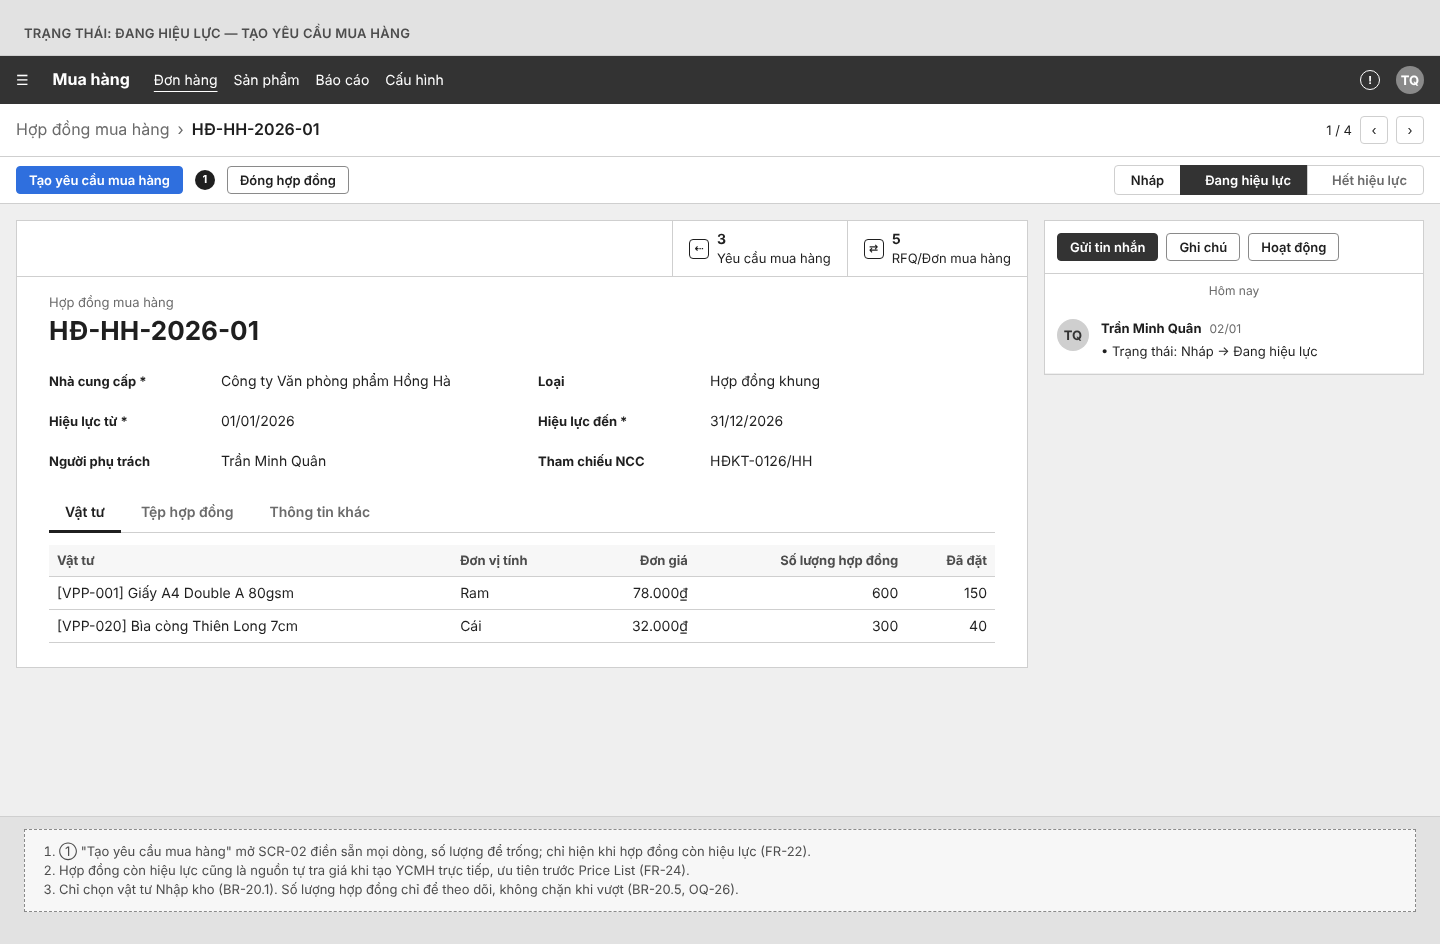
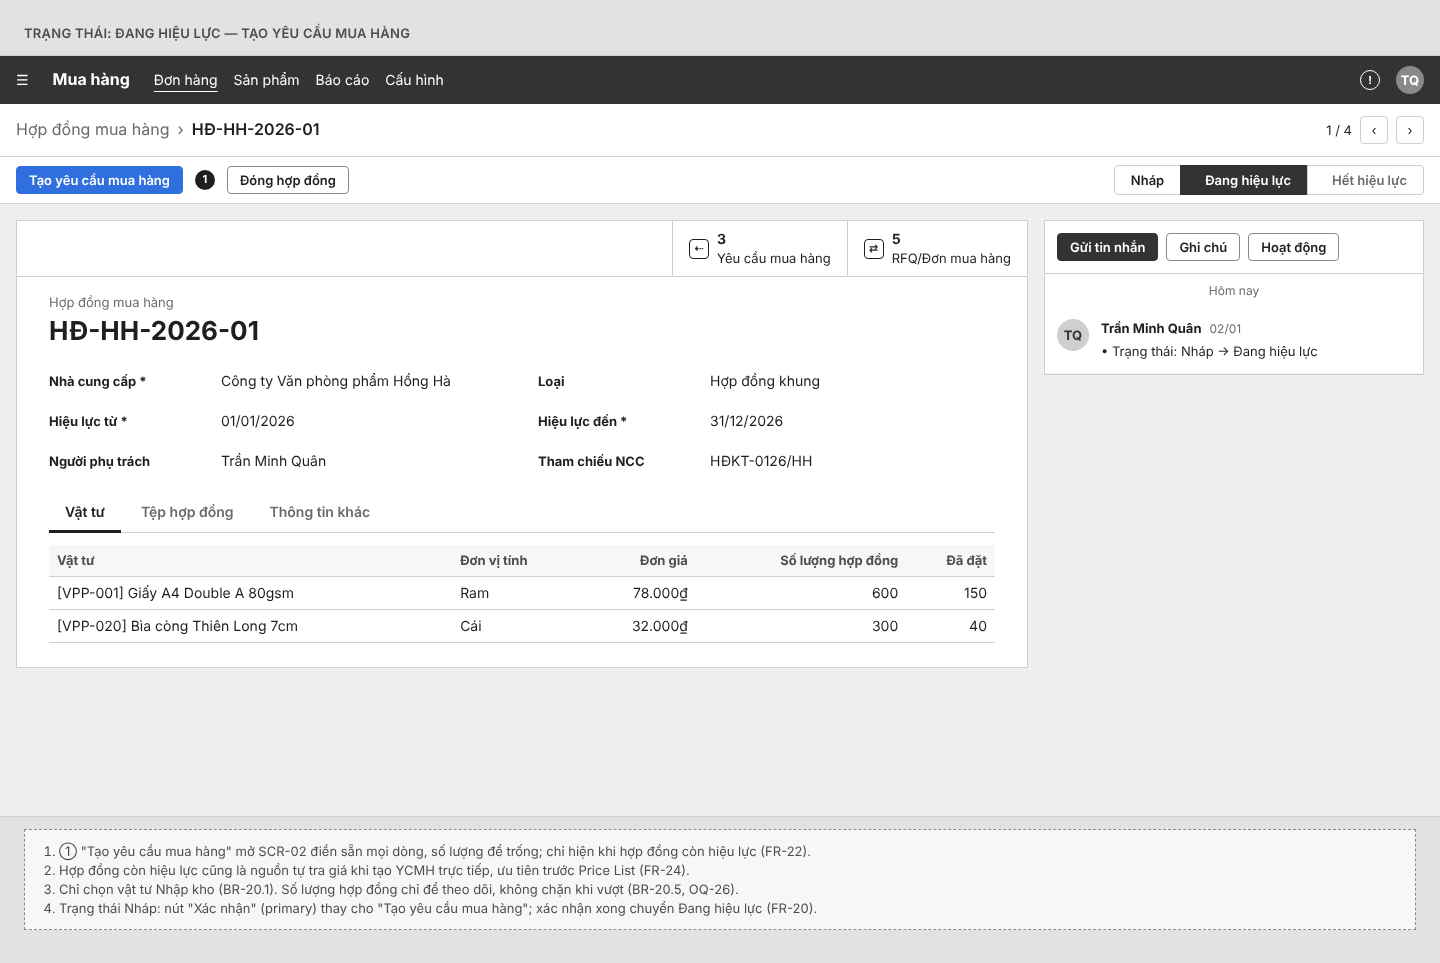
docs(odoo-mua-hang): self-review fixes v0.2
Claude-Session: https://claude.ai/code/session_01FUUTUG18Pmoj9k7Yu1zC77

diff --git a/outputs/odoo-mua-hang/ui/screens/SCR-11-hop-dong-mua-hang.html b/outputs/odoo-mua-hang/ui/screens/SCR-11-hop-dong-mua-hang.html
@@ -23,7 +23,7 @@
   <div class="wf-frame">
 <div class="be-app"><header class="be-topbar"><span>☰</span><span class="be-topbar__app">Mua hàng</span><nav class="be-topbar__menu"><span class="is-active">Đơn hàng</span><span>Sản phẩm</span><span>Báo cáo</span><span>Cấu hình</span></nav><div class="be-topbar__right"><span class="wf-icon wf-icon--round">!</span><span class="wf-avatar">TQ</span></div></header><div class="be-body"><main class="be-main"><div class="be-controlpanel"><div class="be-controlpanel__left"><nav class="wf-breadcrumb"><span>Hợp đồng mua hàng</span><span>HĐ-HH-2026-01</span></nav></div><div class="be-controlpanel__right"><div class="be-pager"><span>1 / 4</span><span class="be-pager__btn">‹</span><span class="be-pager__btn">›</span></div></div></div><div class="be-form-header"><span class="wf-btn wf-btn--sm wf-btn--primary">Tạo yêu cầu mua hàng</span><span class="wf-anno">1</span><span class="wf-btn wf-btn--sm">Đóng hợp đồng</span><div class="be-statusbar"><span class="be-status is-done">Nháp</span><span class="be-status is-active">Đang hiệu lực</span><span class="be-status">Hết hiệu lực</span></div></div><div class="be-form-layout"><div class="be-sheet"><div class="be-smart-buttons"><span class="be-smart-btn"><span class="wf-icon">⇠</span><span><strong>3</strong>Yêu cầu mua hàng</span></span><span class="be-smart-btn"><span class="wf-icon">⇄</span><span><strong>5</strong>RFQ/Đơn mua hàng</span></span></div><div><div class="be-title-label">Hợp đồng mua hàng</div><div class="be-title">HĐ-HH-2026-01</div></div><div class="be-fields"><div class="be-field be-field--required"><span class="be-field__label">Nhà cung cấp</span><span class="be-field__value is-readonly">Công ty Văn phòng phẩm Hồng Hà</span></div><div class="be-field"><span class="be-field__label">Loại</span><span class="be-field__value is-readonly">Hợp đồng khung</span></div><div class="be-field be-field--required"><span class="be-field__label">Hiệu lực từ</span><span class="be-field__value is-readonly">01/01/2026</span></div><div class="be-field be-field--required"><span class="be-field__label">Hiệu lực đến</span><span class="be-field__value is-readonly">31/12/2026</span></div><div class="be-field"><span class="be-field__label">Người phụ trách</span><span class="be-field__value is-readonly">Trần Minh Quân</span></div><div class="be-field"><span class="be-field__label">Tham chiếu NCC</span><span class="be-field__value is-readonly">HĐKT-0126/HH</span></div></div><div class="be-notebook"><div class="wf-tabs"><span class="wf-tab is-active">Vật tư</span><span class="wf-tab">Tệp hợp đồng</span><span class="wf-tab">Thông tin khác</span></div><div class="be-o2m"><table class="wf-table wf-table--compact"><thead><tr><th>Vật tư</th><th>Đơn vị tính</th><th class="num">Đơn giá</th><th class="num">Số lượng hợp đồng</th><th class="num">Đã đặt</th></tr></thead><tbody><tr><td>[VPP-001] Giấy A4 Double A 80gsm</td><td>Ram</td><td class="num">78.000₫</td><td class="num">600</td><td class="num">150</td></tr><tr><td>[VPP-020] Bìa còng Thiên Long 7cm</td><td>Cái</td><td class="num">32.000₫</td><td class="num">300</td><td class="num">40</td></tr></tbody></table></div></div></div><aside class="be-chatter"><div class="be-chatter__actions"><span class="wf-btn wf-btn--sm wf-btn--dark">Gửi tin nhắn</span><span class="wf-btn wf-btn--sm">Ghi chú</span><span class="wf-btn wf-btn--sm">Hoạt động</span></div><div class="be-chatter__date">Hôm nay</div><div class="be-msg"><span class="wf-avatar">TQ</span><div><div class="be-msg__head"><span class="be-msg__author">Trần Minh Quân</span><span class="be-msg__time">02/01</span></div><ul class="be-tracking"><li>Trạng thái: Nháp → Đang hiệu lực</li></ul></div></div></aside></div></main></div></div>
   </div>
-  <div class="wf-notes"><ol><li>① "Tạo yêu cầu mua hàng" mở SCR-02 điền sẵn mọi dòng, số lượng để trống; chỉ hiện khi hợp đồng còn hiệu lực (FR-22).</li><li>Hợp đồng còn hiệu lực cũng là nguồn tự tra giá khi tạo YCMH trực tiếp, ưu tiên trước Price List (FR-24).</li><li>Chỉ chọn vật tư Nhập kho (BR-20.1). Số lượng hợp đồng chỉ để theo dõi, không chặn khi vượt (BR-20.5, OQ-26).</li></ol></div>
+  <div class="wf-notes"><ol><li>① "Tạo yêu cầu mua hàng" mở SCR-02 điền sẵn mọi dòng, số lượng để trống; chỉ hiện khi hợp đồng còn hiệu lực (FR-22).</li><li>Hợp đồng còn hiệu lực cũng là nguồn tự tra giá khi tạo YCMH trực tiếp, ưu tiên trước Price List (FR-24).</li><li>Chỉ chọn vật tư Nhập kho (BR-20.1). Số lượng hợp đồng chỉ để theo dõi, không chặn khi vượt (BR-20.5, OQ-26).</li><li>Trạng thái Nháp: nút "Xác nhận" (primary) thay cho "Tạo yêu cầu mua hàng"; xác nhận xong chuyển Đang hiệu lực (FR-20).</li></ol></div>
 </section>
 <section class="wf-state" data-state="expired" data-label="Hết hiệu lực">
   <div class="wf-frame">

diff --git a/outputs/odoo-mua-hang/ui/screens/SCR-12-bao-gia-ncc.html b/outputs/odoo-mua-hang/ui/screens/SCR-12-bao-gia-ncc.html
@@ -23,7 +23,7 @@
   <div class="wf-frame">
 <div class="be-app"><header class="be-topbar"><span>☰</span><span class="be-topbar__app">Mua hàng</span><nav class="be-topbar__menu"><span class="is-active">Đơn hàng</span><span>Sản phẩm</span><span>Báo cáo</span><span>Cấu hình</span></nav><div class="be-topbar__right"><span class="wf-icon wf-icon--round">!</span><span class="wf-avatar">TQ</span></div></header><div class="be-body"><main class="be-main"><div class="be-controlpanel"><div class="be-controlpanel__left"><nav class="wf-breadcrumb"><span>Báo giá NCC</span><span>BG-PV-1510</span></nav></div><div class="be-controlpanel__right"><div class="be-pager"><span>2 / 6</span><span class="be-pager__btn">‹</span><span class="be-pager__btn">›</span></div></div></div><div class="be-form-header"><span class="wf-btn wf-btn--sm wf-btn--primary">Tạo yêu cầu mua hàng</span><span class="wf-anno">1</span><span class="wf-btn wf-btn--sm wf-btn--ghost">Huỷ</span><div class="be-statusbar"><span class="be-status is-done">Nháp</span><span class="be-status is-active">Còn hiệu lực</span><span class="be-status">Hết hiệu lực</span></div></div><div class="be-form-layout"><div class="be-sheet"><div class="be-smart-buttons"><span class="be-smart-btn"><span class="wf-icon">⇠</span><span><strong>1</strong>Yêu cầu mua hàng</span></span></div><div><div class="be-title-label">Báo giá NCC</div><div class="be-title">BG-PV-1510</div></div><div class="be-fields"><div class="be-field be-field--required"><span class="be-field__label">Nhà cung cấp</span><span class="be-field__value is-readonly">Công ty TNHH Tin học Phong Vũ</span></div><div class="be-field be-field--required"><span class="be-field__label">Ngày báo giá</span><span class="be-field__value is-readonly">15/10/2026</span></div><div class="be-field"><span class="be-field__label">Người nhận</span><span class="be-field__value is-readonly">Trần Minh Quân</span></div><div class="be-field be-field--required"><span class="be-field__label">Hiệu lực đến</span><span class="be-field__value is-readonly">15/11/2026</span></div><div class="be-field be-field--required"><span class="be-field__label">Tệp báo giá</span><span class="be-field__value is-readonly"><span class="wf-file-list"><span class="wf-badge">📎 BG-PV-1510.pdf</span></span></span></div></div><div class="be-notebook"><div class="wf-tabs"><span class="wf-tab is-active">Vật tư</span><span class="wf-tab">Thông tin khác</span></div><div class="be-o2m"><table class="wf-table wf-table--compact"><thead><tr><th>Vật tư</th><th>Đơn vị tính</th><th class="num">Đơn giá</th><th class="num">Số lượng tối thiểu</th><th>Ghi chú</th></tr></thead><tbody><tr><td>[IT-211] Máy in HP LaserJet M211dw</td><td>Cái</td><td class="num">6.990.000₫</td><td class="num">1</td><td>Bảo hành 12 tháng</td></tr><tr><td>[IT-107] Mực in HP 107A</td><td>Hộp</td><td class="num">765.000₫</td><td class="num">5</td><td>Hàng chính hãng</td></tr></tbody></table></div></div></div><aside class="be-chatter"><div class="be-chatter__actions"><span class="wf-btn wf-btn--sm wf-btn--dark">Gửi tin nhắn</span><span class="wf-btn wf-btn--sm">Ghi chú</span><span class="wf-btn wf-btn--sm">Hoạt động</span></div><div class="be-chatter__date">Hôm nay</div><div class="be-msg"><span class="wf-avatar">TQ</span><div><div class="be-msg__head"><span class="be-msg__author">Trần Minh Quân</span><span class="be-msg__time">15/10</span></div><ul class="be-tracking"><li>Trạng thái: Nháp → Còn hiệu lực</li></ul></div></div></aside></div></main></div></div>
   </div>
-  <div class="wf-notes"><ol><li>① "Tạo yêu cầu mua hàng" mở SCR-02 điền sẵn NCC, đơn giá báo giá, số lượng để trống; chỉ hiện khi còn hiệu lực (FR-23).</li><li>Báo giá NCC là báo giá nhà cung cấp gửi công ty, khác RFQ "Yêu cầu báo giá" công ty gửi đi; không tham gia tự tra giá (BR-21.3, AS-33).</li><li>Số lượng nhập dưới "Số lượng tối thiểu" → cảnh báo, vẫn lưu được (BR-23.3).</li></ol></div>
+  <div class="wf-notes"><ol><li>① "Tạo yêu cầu mua hàng" mở SCR-02 điền sẵn NCC, đơn giá báo giá, số lượng để trống; chỉ hiện khi còn hiệu lực (FR-23).</li><li>Báo giá NCC là báo giá nhà cung cấp gửi công ty, khác RFQ "Yêu cầu báo giá" công ty gửi đi; không tham gia tự tra giá (BR-21.3, AS-33).</li><li>Số lượng nhập dưới "Số lượng tối thiểu" → cảnh báo, vẫn lưu được (BR-23.3).</li><li>Trạng thái Nháp: nút "Xác nhận" (primary) thay cho "Tạo yêu cầu mua hàng"; bắt buộc có tệp báo giá (FR-21).</li></ol></div>
 </section>
 <section class="wf-state" data-state="expired" data-label="Hết hiệu lực">
   <div class="wf-frame">

diff --git a/outputs/odoo-mua-hang/SRS.md b/outputs/odoo-mua-hang/SRS.md
@@ -13,7 +13,7 @@
 | Phiên bản | Ngày | Thay đổi | Nguồn | Ảnh hưởng |
 |---|---|---|---|---|
 | 0.1 | 2026-10-20 | Bản đầu tiên | inputs/odoo-mua-hang/khao-sat-lan-1.md | Toàn bộ |
-| 0.2 | 2026-10-20 | Khảo sát lần 2 — phiếu Yêu cầu mua hàng: phân loại vật tư Nhập kho / Dịch vụ; 3 cách tạo YCMH (trực tiếp, từ Hợp đồng, từ Báo giá NCC); số phiếu `Mã BP_XXXX_DD_MM_YY`; đầu phiếu và dòng mới (kho nhận theo dòng); duyệt 3 cấp Trưởng nhóm → MH → BOD; tự điền NCC và giá theo Hợp đồng → Price List; chặn trùng vật tư + NCC; mua dịch vụ bằng RFQ trực tiếp | inputs/odoo-mua-hang/khao-sat-lan-2-yeu-cau-mua-hang.md; inputs/odoo-mua-hang/_changes/20261020-074707.md | Sửa FR-01, FR-02, FR-03, FR-05, FR-13, FR-16, FR-17, NFR-02, SCR-01, SCR-02, SCR-03, SCR-04; thêm FR-19 → FR-25, SCR-11, SCR-12, AS-26 → AS-37, OQ-22 → OQ-33; OQ-04 đã trả lời |
+| 0.2 | 2026-10-20 | Khảo sát lần 2 — phiếu Yêu cầu mua hàng: phân loại vật tư Nhập kho / Dịch vụ; 3 cách tạo YCMH (trực tiếp, từ Hợp đồng, từ Báo giá NCC); số phiếu `Mã BP_XXXX_DD_MM_YY`; đầu phiếu và dòng mới (kho nhận theo dòng); duyệt 3 cấp Trưởng nhóm → MH → BOD; tự điền NCC và giá theo Hợp đồng → Price List; chặn trùng vật tư + NCC; mua dịch vụ bằng RFQ trực tiếp | inputs/odoo-mua-hang/khao-sat-lan-2-yeu-cau-mua-hang.md; inputs/odoo-mua-hang/_changes/20261020-074707.md | Sửa FR-01, FR-02, FR-03, FR-05, FR-13, FR-16, FR-17, NFR-02, SCR-01, SCR-02, SCR-03, SCR-04; thêm FR-19 → FR-25, SCR-11, SCR-12, AS-26 → AS-38, OQ-22 → OQ-33; OQ-04 đã trả lời; SCR-05 chỉ cập nhật nền (số phiếu, cột Nhập kho) |
 
 ## 1. Giới thiệu
 
@@ -93,7 +93,7 @@ flowchart LR
 | Quản trị hệ thống | Backend — Settings | Cấu hình người duyệt, ngưỡng, mẫu email |
 
 ### 2.3 Giả định & phụ thuộc
-- **Giả định:** xem mục 9.1 (AS-01 … AS-37).
+- **Giả định:** xem mục 9.1 (AS-01 … AS-38).
 - **Phụ thuộc:**
   - Odoo 17 Enterprise với các module `purchase`, `purchase_requisition` (Alternatives), `approvals`, `approval_purchase`, `stock`, `account_accountant` (AS-01).
   - Module tuỳ biến mới `purchase_flow_custom` (tên đề xuất) chứa toàn bộ thay đổi; không sửa mã nguồn lõi.
@@ -429,7 +429,7 @@ flowchart LR
   - BR-20.1: Chỉ vật tư Nhập kho (BR-19.1).
   - BR-20.2: Hiệu lực đến > Hiệu lực từ.
   - BR-20.3: Còn hiệu lực = trạng thái "Đang hiệu lực" và ngày hiện tại nằm trong [Hiệu lực từ, Hiệu lực đến] (AS-30).
-  - BR-20.4: Tác vụ chạy hằng ngày 00:05 chuyển hợp đồng quá "Hiệu lực đến" sang "Hết hiệu lực".
+  - BR-20.4: Tác vụ chạy hằng ngày 00:05 (AS-38) chuyển hợp đồng quá "Hiệu lực đến" sang "Hết hiệu lực".
   - BR-20.5: Không kiểm tra số lượng hợp đồng còn lại khi tạo YCMH hoặc tra giá (AS-30, OQ-26).
 - **Acceptance criteria:**
   1. **Given** hợp đồng Nháp đủ thông tin, có 1 dòng đơn giá > 0 **When** bấm "Xác nhận" **Then** hợp đồng chuyển "Đang hiệu lực".
@@ -447,7 +447,7 @@ flowchart LR
   - BR-21.1: Chỉ vật tư Nhập kho (BR-19.1).
   - BR-21.2: Hiệu lực đến ≥ Ngày báo giá.
   - BR-21.3: Báo giá NCC không tham gia tự tra giá FR-24 (AS-33).
-  - BR-21.4: Tác vụ hằng ngày 00:05 chuyển báo giá quá "Hiệu lực đến" sang "Hết hiệu lực".
+  - BR-21.4: Tác vụ hằng ngày 00:05 (AS-38) chuyển báo giá quá "Hiệu lực đến" sang "Hết hiệu lực".
 - **Acceptance criteria:**
   1. **Given** báo giá Nháp đủ thông tin, có tệp báo giá **When** bấm "Xác nhận" **Then** báo giá chuyển "Còn hiệu lực".
   2. **Given** báo giá chưa đính kèm tệp **When** bấm "Xác nhận" **Then** hiện lỗi "Vui lòng đính kèm file báo giá của NCC".
@@ -838,6 +838,7 @@ flowchart TD
 | AS-35 | Đầu phiếu giữ "Ngày cần hàng" (không bắt buộc, làm ngày dự kiến trên RFQ); "Lý do mua" bỏ, thay bằng "Ghi chú" (không bắt buộc) | Khảo sát lần 2 không nhắc 2 trường này | FR-01 |
 | AS-36 | Tạo YCMH từ Hợp đồng / Báo giá NCC: chép mọi dòng, số lượng để trống cho người tạo nhập, dòng không cần thì xoá; NCC và đơn giá khoá theo chứng từ nguồn; được thêm dòng vật tư khác (tự tra giá) | Input chưa mô tả chi tiết | FR-22, FR-23 |
 | AS-37 | Giữ cả hai lớp duyệt: YCMH (Trưởng nhóm → MH → BOD) và đơn mua hàng sau chọn giá (AS-08) cho tới khi khảo sát phiếu tiếp theo | Khảo sát lần 2 mới đi chi tiết phiếu YCMH | FR-09, FR-10 |
+| AS-38 | Tác vụ chuyển Hợp đồng / Báo giá NCC sang "Hết hiệu lực" chạy hằng ngày lúc 00:05 | Ngoài giờ làm việc, trước khi người dùng tra giá | FR-20, FR-21 |
 
 ### 9.2 Câu hỏi mở
 | Mã | Câu hỏi | Người cần trả lời | Ảnh hưởng tới |
